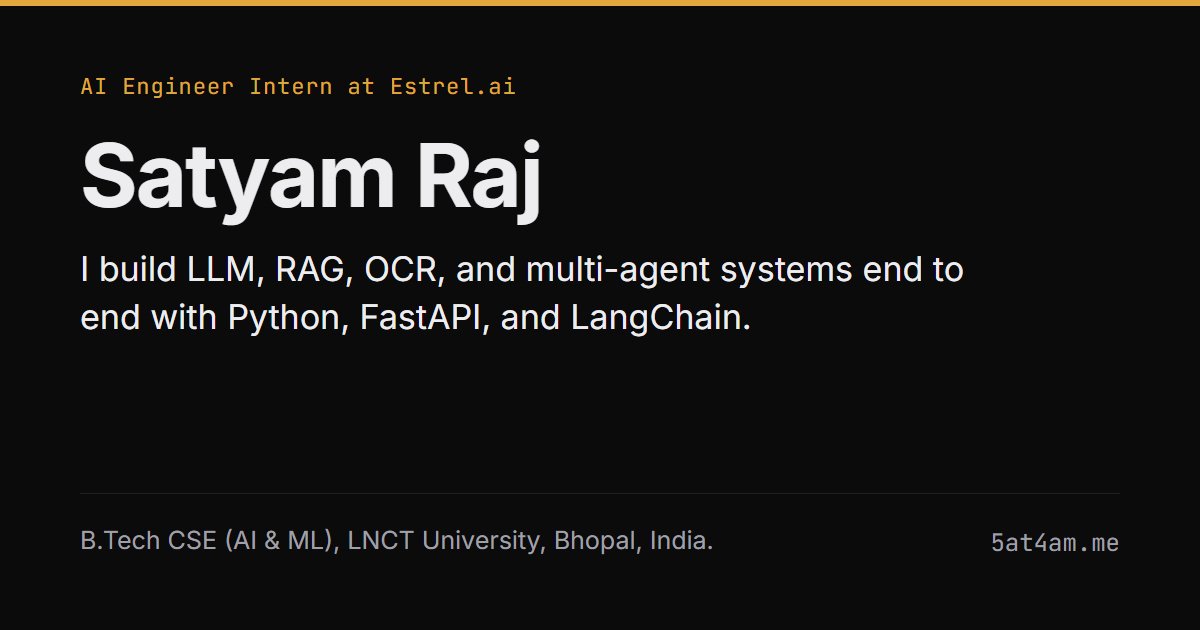
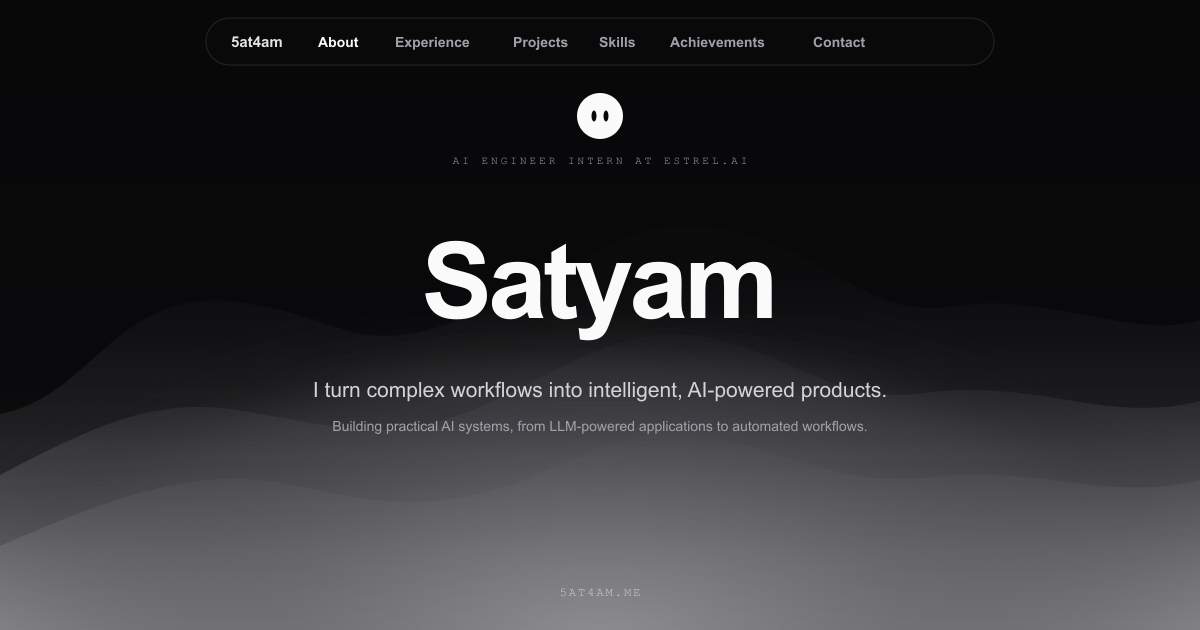
Update Open Graph preview card

diff --git a/src/content/metadata.ts b/src/content/metadata.ts
@@ -18,7 +18,8 @@ export const PAPER_TITLE = `3D Paper Certificate | ${SITE.name}`;
 export const PAPER_DESCRIPTION = `The Estrel.ai capstone certificate as an interactive translucent 3D paper document, rendered in the browser.`;
 
 const OG_IMAGE = {
-  url: `${SITE.url}/og.png`,
+  // Version the public URL so chat apps do not keep serving a cached older card.
+  url: `${SITE.url}/og-v3.png`,
   width: 1200,
   height: 630,
   alt: `${SITE.name}, ${SITE.role}`,

diff --git a/memory.md b/memory.md
@@ -711,6 +711,10 @@ fault. Measured, not read.
   `appleWebApp`, and format detection. `/paper` restates `og:url`, `og:site_name`, `og:type`, `og:locale`, and
   images because a nested `openGraph` object replaces the root one. The explicit `/favicon.ico` metadata entry was
   removed; `src/app/favicon.ico` is a file convention and already emits the link.
+- **Share-card art** (`public/og-source.svg` → `public/og.png`) follows the live hero composition: monochrome dark
+  backdrop, floating nav, eye mark, centered role/name/copy, and soft layered waves. `og-v3.png` is the versioned
+  public asset used by root and `/paper` share metadata to avoid stale chat-app previews. Render PNG from SVG with
+  `sharp` at 1200×630 when changing the card.
 - **One freshness date:** `SITE.updated = "2026-10-27"` drives sitemap `lastmod`, `ProfilePage`/`WebPage`
   `dateModified`, and the ongoing-role duration. Bump it when content changes.
 - **Build check cleaned:** `scripts/build-site.mjs` no longer expects the removed `profile.html`; a clean build now
